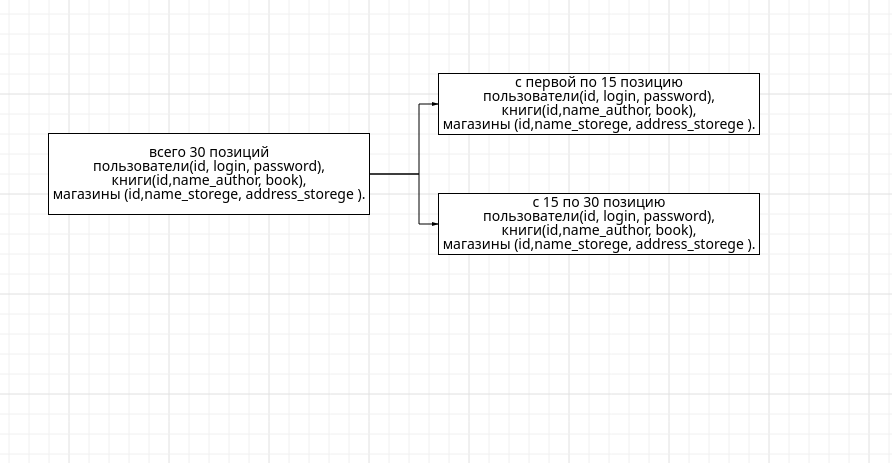
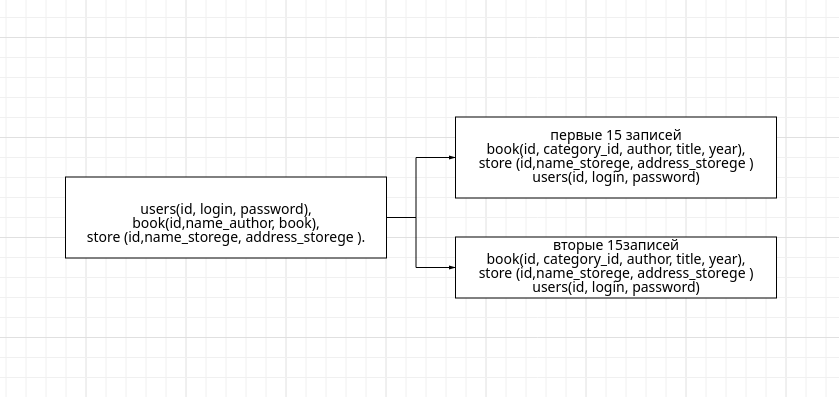
12-07

diff --git a/12-08.md b/12-08.md
@@ -20,11 +20,13 @@
 Необходимо описать, какие варианты резервного копирования подходят в случаях: 
 
 1.1. Необходимо восстанавливать данные в полном объёме за предыдущий день.
+Полное резервное копирование
 
 1.2. Необходимо восстанавливать данные за час до предполагаемой поломки.
+Инкрементное или дифференциальное резервное копирование
 
 1.3.* Возможен ли кейс, когда при поломке базы происходило моментальное переключение на работающую или починенную базу данных.
-
+Возможно в случае когда проблема не в данныз базы, а аппаратной части узла, где хранится базза данных. Для этого mastera, который выведен из стороя, меняют на slave. 
 *Приведите ответ в свободной форме.*
 
 ---
@@ -32,10 +34,17 @@
 ### Задание 2. PostgreSQL
 
 2.1. С помощью официальной документации приведите пример команды резервирования данных и восстановления БД (pgdump/pgrestore).
-
+  1. pg_dump записывает результаты своей работы в устройство стандартного вывода
+  2. Текстовые файлы, созданные pg_dump, предназначаются для последующего чтения программой psql с использованием параметров по умолчанию.
+```pg_dump имя_базы > файл_дампа
+   psql -X имя_базы < файл_дампа
+```
+  3. Утилита pg_restore предназначена для восстановления базы данных PostgreSQL из архива, созданного командой pg_dump в любом из не текстовых форматов.
+```pg_restore -d имя_базы < файл_дампа```
 2.1.* Возможно ли автоматизировать этот процесс? Если да, то как?
-
+Можно создать скрипт с командами описаными выше и добавить скрипт в cron для регулярного резервирования.
 *Приведите ответ в свободной форме.*
+
 
 ---
 
@@ -43,6 +52,10 @@
 
 3.1. С помощью официальной документации приведите пример команды инкрементного резервного копирования базы данных MySQL. 
 
+Если mysqld выполняется, остановить его, и затем запустить с опцией --log-update[=file_name]. В файлах журнала обновлений находится информация, необходимая для того, чтобы повторить в базе данных последовательность изменений, внесенных с момента выполнения mysqldump.Запустив сервер с опцией --log-update, мы включим журналирование данных, и если потребуется сделать инкрементное копирование данных, то нужно скопировать журналы обновления с той даты когда было выполнено последее резервное копирование.
+```mysqldump --flush-logs --single-transaction --all-databases > backup.sql
+```
+После выполнения команды, появится файл backup.sql, который содержит инкриминтированные данные.
 3.1.* В каких случаях использование реплики будет давать преимущество по сравнению с обычным резервным копированием?
 
 *Приведите ответ в свободной форме.*

diff --git a/12-07.md b/12-07.md
@@ -53,10 +53,10 @@ Master-сервер и несколько slave-серверов:
 ![№1](https://github.com/Myrork/HW/blob/sdbsql-24/12-07/12-07-2.png) 
 
 #### Вертикальный шаринг
-В базе данных три таблицы (пользователи, книги, магазины) после вертикального шаринга мы получим две или три базы данных, которые буту содержать отдельные таблицы, например: в одной базе данных две таблицы(магазины, книги), а в оставшейся базе(пользователи) или три базы с таблицей в каждой.
+В базе данных три таблицы (пользователи, книги, магазины) после вертикального шардинга мы получим 6 таблиц разбитых по столбцам, например, если раньше таблица пользователи состоянаиз столбцов (id, login, password), то после шардинга мы получим две таблицы с двумя столбцами в каждой пользователи_login(id, login) и пользователи_pass(id, password).
 
 ![№2](https://github.com/Myrork/HW/blob/sdbsql-24/12-07/12-07-2.1.png)  
-![№3](https://github.com/Myrork/HW/blob/sdbsql-24/12-07/12-07-2.2.png) 
+ 
 Опишите принципы построения системы и их разграничение или разбивку между базами данных.
 
 *Пришлите блоксхему, где и что будет располагаться. Опишите, в каких режимах будут работать сервера.* 
